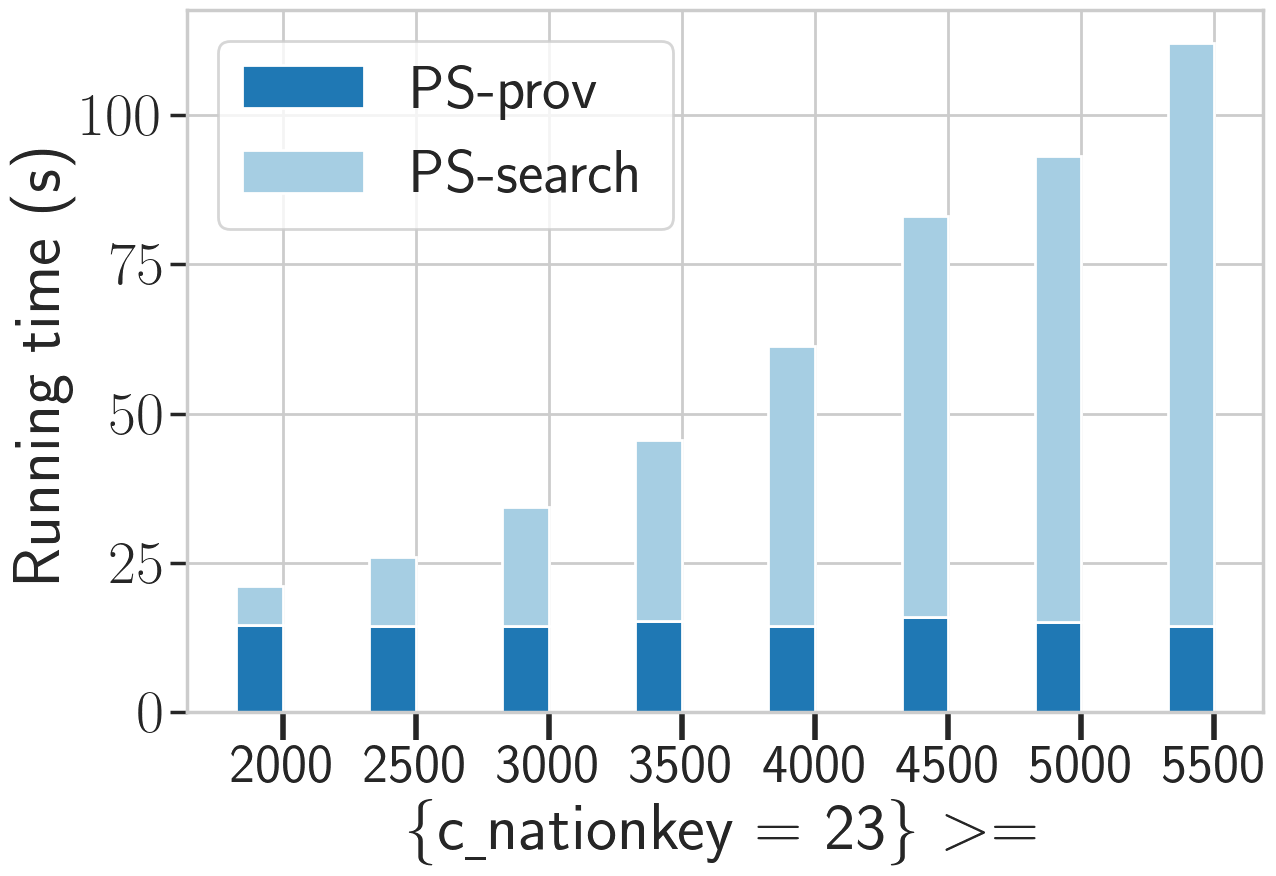
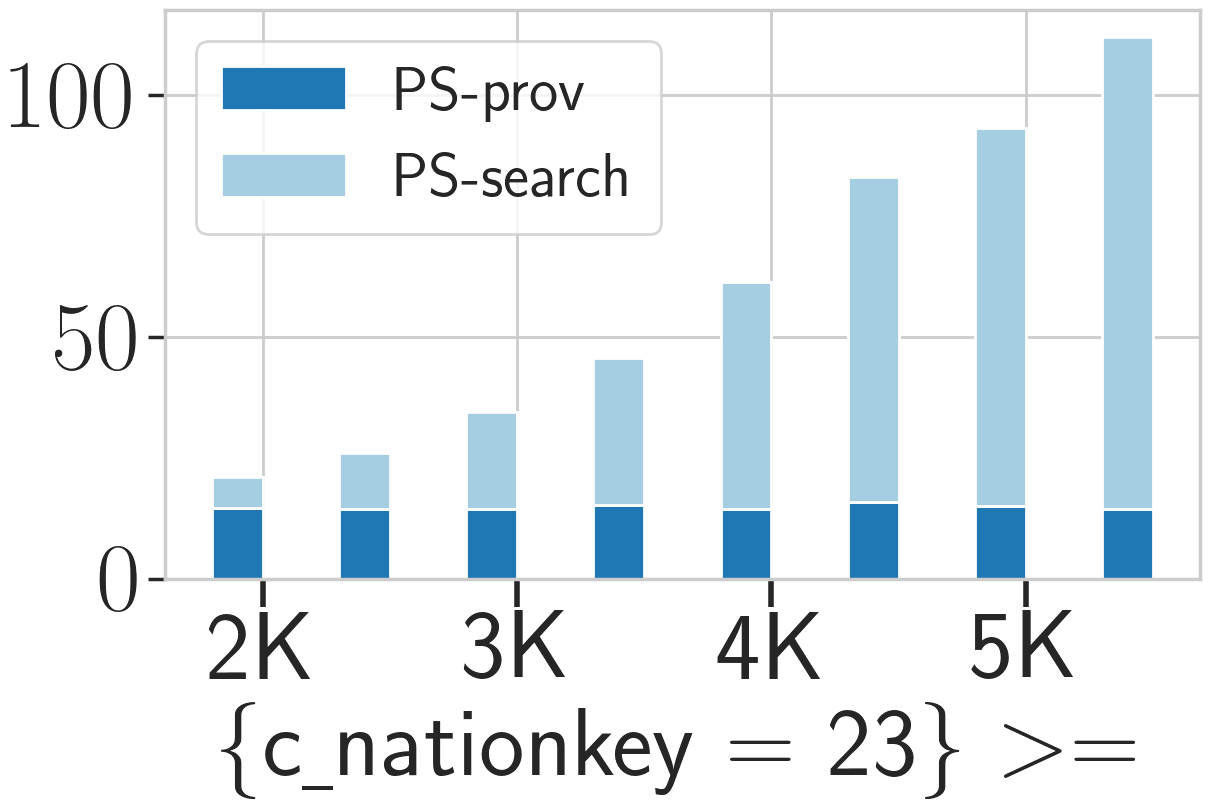
fix fig

diff --git a/Experiment/TPCH/1G/constraint_change/q3_refine/fig.py b/Experiment/TPCH/1G/constraint_change/q3_refine/fig.py
@@ -7,9 +7,6 @@ import matplotlib.ticker as ticker
 import datetime
 from matplotlib.dates import AutoDateLocator, AutoDateFormatter, date2num
 
-plt.rc('text', usetex=True)
-plt.rc('font', family='serif')
-
 sns.set_palette("Paired")
 # sns.set_palette("deep")
 sns.set_context("poster", font_scale=2)
@@ -21,6 +18,8 @@ plt.rcParams['ytick.left'] = True
 
 color = ['C1', 'C0', 'C3', 'C2']
 label = ['PS-prov', "PS-search", "BL-prov", "BL-search"]
+plt.rc('text', usetex=True)
+plt.rc('font', size=70, weight='bold')
 
 f_size = (14, 10)
 
@@ -59,12 +58,12 @@ def run(query, size, constraint):
             execution_timebl1.append(0)
             execution_timebl2.append(0)
     # x_list = [19941230, 19950115, 19950130, 19950215, 19950230, 19950315, 19950330, 19950415]
-    x_list = [4930, 4940, 4950, 4960, 4970, 4980, 4990, 5000]
+    x_list = [4930, 4950, 4970, 4990]
 
     print(x_list, execution_timeps1, execution_timeps2)
 
     index = np.arange(len(execution_timeps1))
-    bar_width = 0.35
+    bar_width = 0.4
 
     fig, ax = plt.subplots(1, 1, figsize=f_size)
 
@@ -82,12 +81,13 @@ def run(query, size, constraint):
     #         color=color[3], label=label[3])
     #
 
-    plt.xticks(np.arange(0, 8) + bar_width/2, x_list, rotation=0, fontsize=40)
+    plt.xticks(np.arange(0, 8, 2) + bar_width/2, x_list, rotation=0, fontsize=70)
+    plt.yticks(fontsize=70, weight='bold')
 
     plt.xlabel(r'\{shipmode = TRUCK\} $>=$')
-    plt.ylabel('Running time (s)')
+    # plt.ylabel('Running time (s)')
     # plt.legend(loc='upper right', bbox_to_anchor=(0.98, 0.55))
-    plt.legend(loc="best")
+    plt.legend(loc="best", fontsize=45)
     plt.tight_layout()
     fig_path = "constraint_change_q" + str(query) + "_" + size + "_" + constraint + ".png"
 

diff --git a/Experiment/TPCH/1G/constraint_change/q3_relax/fig.py b/Experiment/TPCH/1G/constraint_change/q3_relax/fig.py
@@ -7,9 +7,6 @@ import matplotlib.ticker as ticker
 import datetime
 from matplotlib.dates import AutoDateLocator, AutoDateFormatter, date2num
 
-plt.rc('text', usetex=True)
-plt.rc('font', family='serif')
-
 sns.set_palette("Paired")
 # sns.set_palette("deep")
 sns.set_context("poster", font_scale=2)
@@ -21,6 +18,8 @@ plt.rcParams['ytick.left'] = True
 
 color = ['C1', 'C0', 'C3', 'C2']
 label = ['PS-prov', "PS-search", "BL-prov", "BL-search"]
+plt.rc('text', usetex=True)
+plt.rc('font', size=70, weight='bold')
 
 f_size = (14, 10)
 
@@ -59,12 +58,12 @@ def run(query, size, constraint):
             execution_timebl1.append(0)
             execution_timebl2.append(0)
     # x_list = [19941230, 19950115, 19950130, 19950215, 19950230, 19950315, 19950330, 19950415]
-    x_list = [2000, 2500, 3000, 3500, 4000, 4500, 5000, 5500]
+    x_list = ['2K', '3K', '4K', '5K']
 
     print(x_list, execution_timeps1, execution_timeps2)
 
     index = np.arange(len(execution_timeps1))
-    bar_width = 0.35
+    bar_width = 0.4
 
     fig, ax = plt.subplots(1, 1, figsize=f_size)
 
@@ -82,12 +81,13 @@ def run(query, size, constraint):
     #         color=color[3], label=label[3])
     #
 
-    plt.xticks(np.arange(0, 8) + bar_width/2, x_list, rotation=0, fontsize=40)
+    plt.xticks(np.arange(0, 8, 2) + bar_width/2, x_list, rotation=0, fontsize=70)
+    plt.yticks(fontsize=70, weight='bold')
 
     plt.xlabel(r'\{c\underline{ }nationkey = 23\} $>=$')
-    plt.ylabel('Running time (s)')
+
     # plt.legend(loc='upper right', bbox_to_anchor=(0.98, 0.55))
-    plt.legend(loc="best")
+    plt.legend(loc="best", fontsize=45)
     plt.tight_layout()
     fig_path = "constraint_change_q" + str(query) + "_" + size + "_" + constraint + ".png"
 
